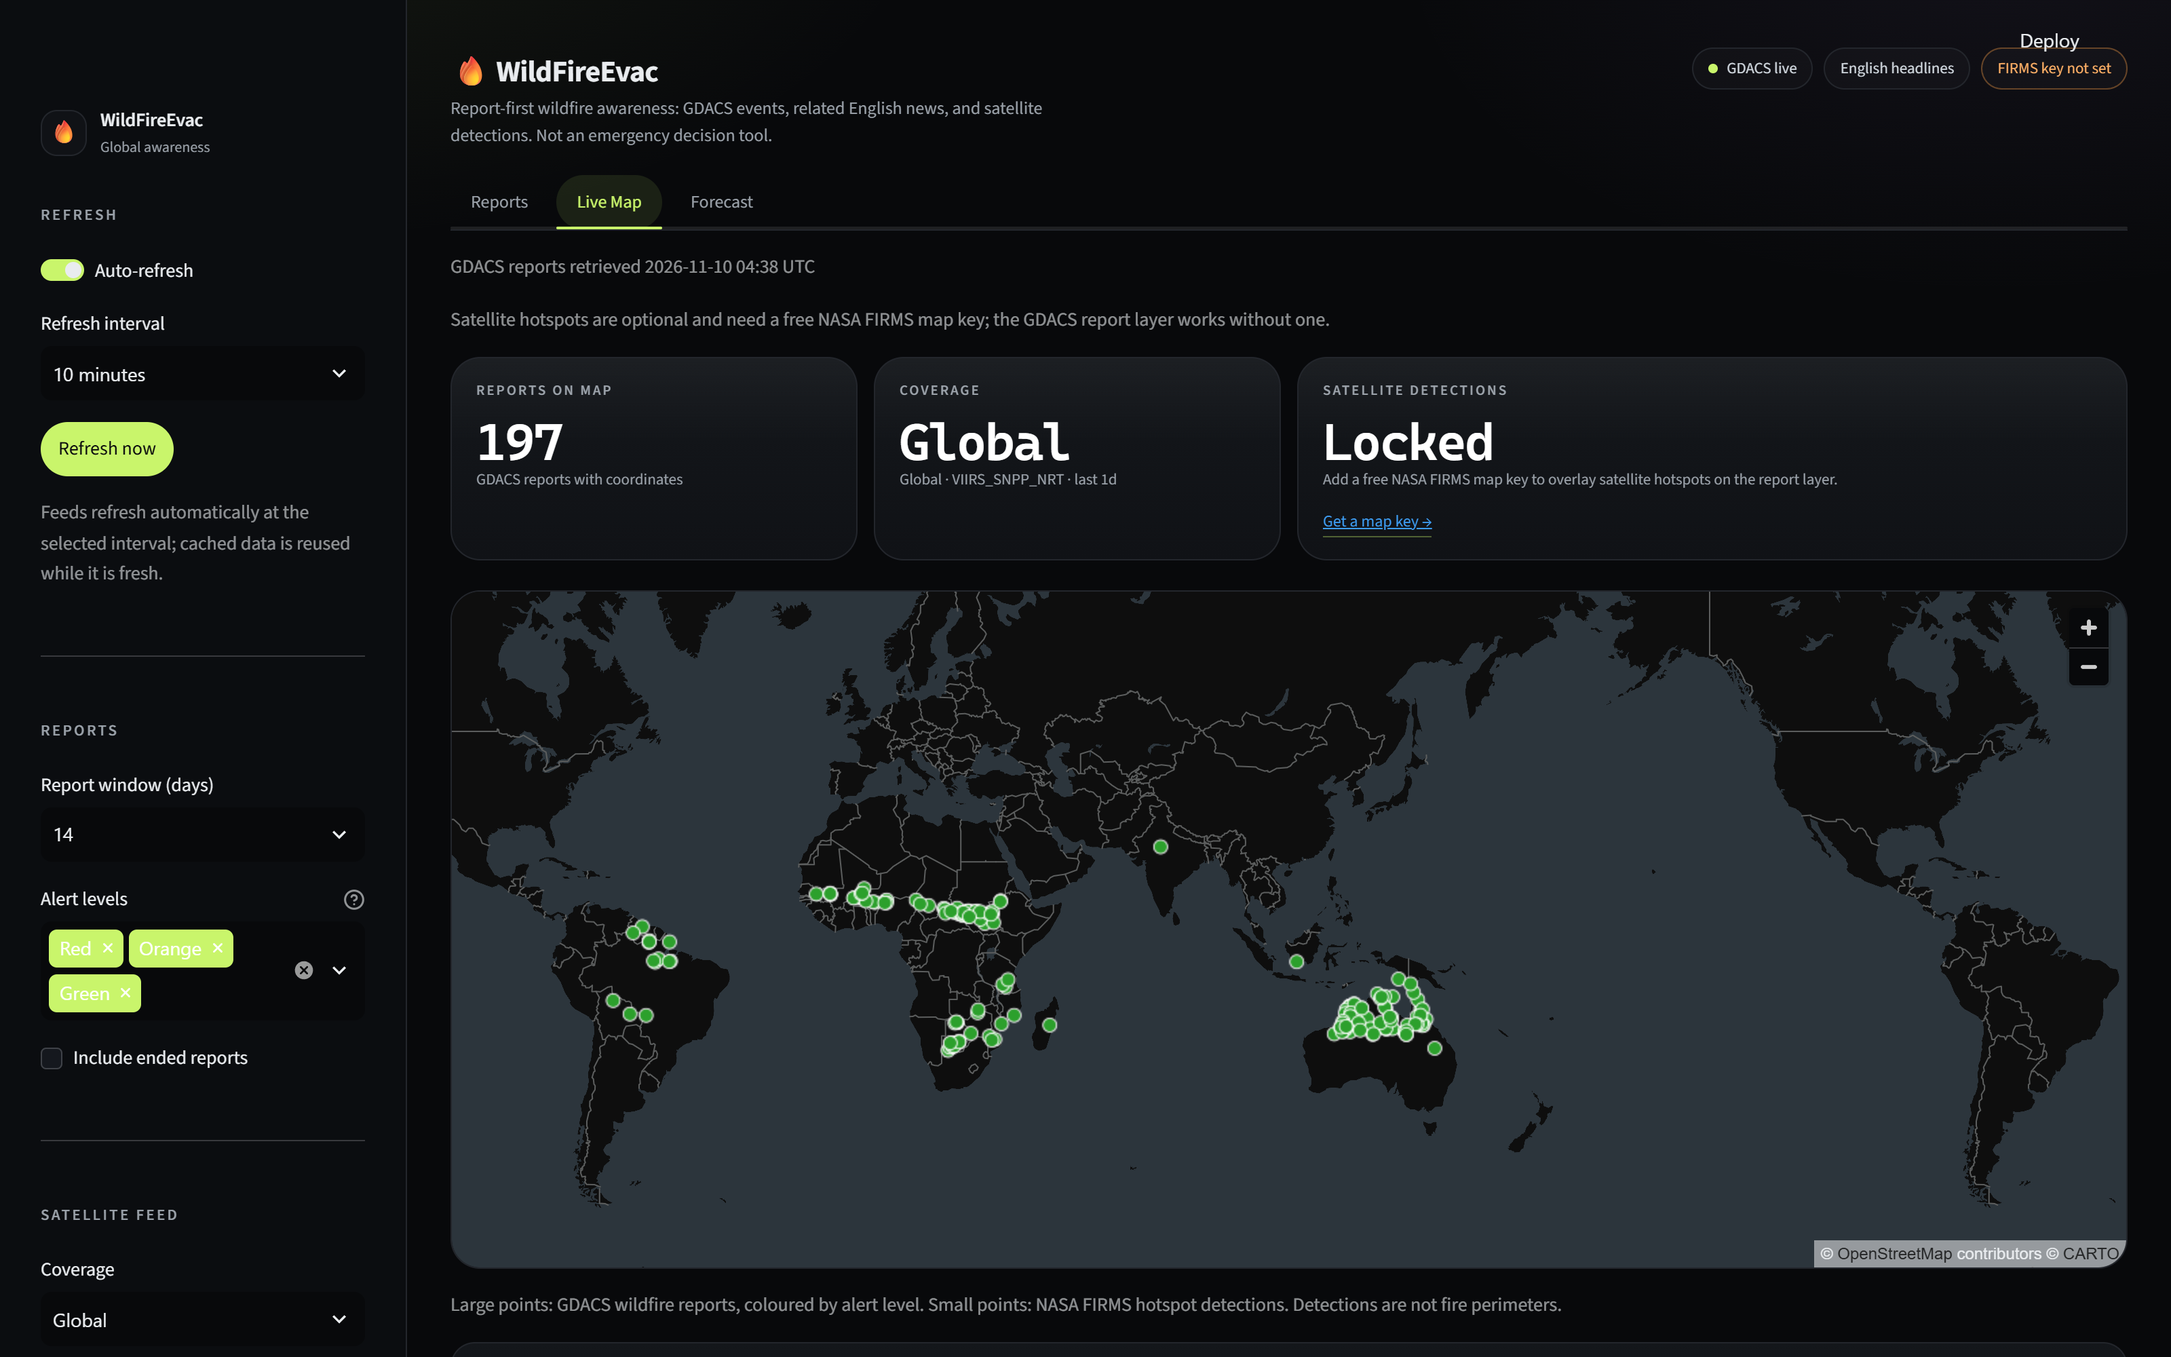
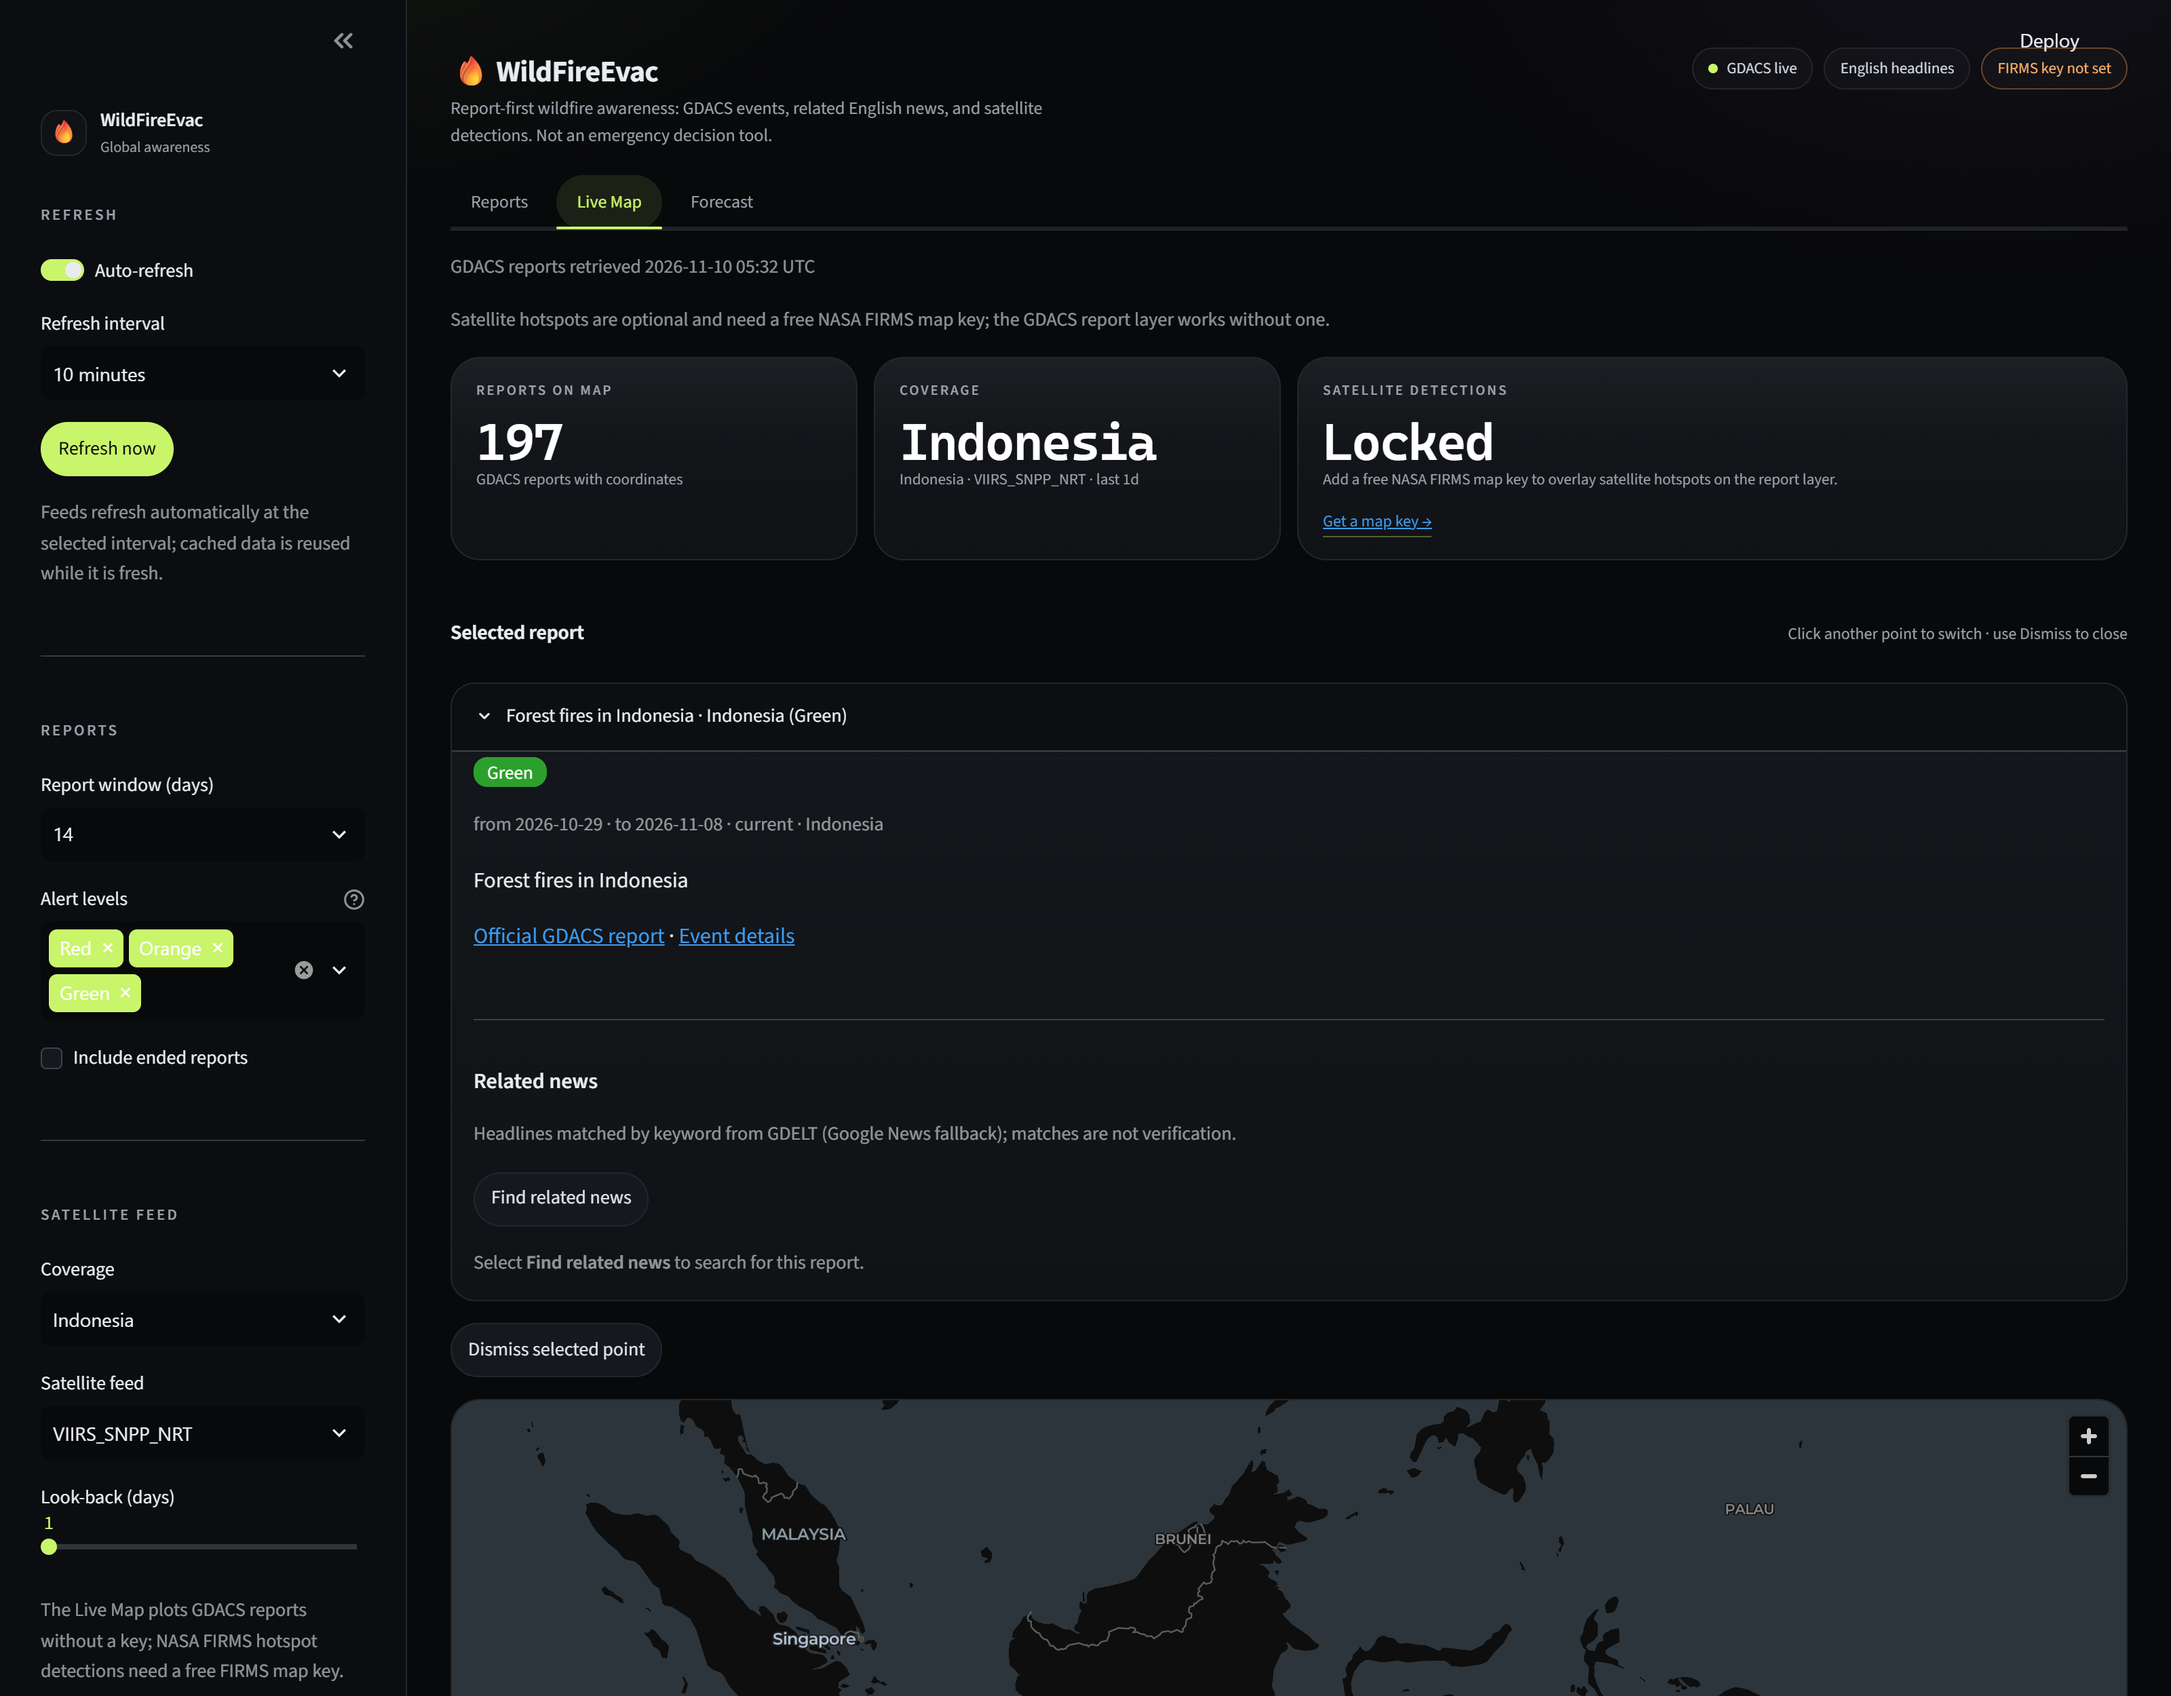
Open report details when a map point is clicked

diff --git a/app.py b/app.py
@@ -442,7 +442,7 @@ def _news_timespan(from_date) -> str:
     return f"{min(max(days, 7), 90)}d"
 
 
-def render_related_news(row) -> None:
+def render_related_news(row, key_prefix: str = "") -> None:
     st.divider()
     st.markdown("**Related news**")
     st.caption(
@@ -451,7 +451,9 @@ def render_related_news(row) -> None:
     )
 
     requested = st.session_state.setdefault("_news_requested", set())
-    if st.button("Find related news", key=f"news-button-{row.event_id}"):
+    if st.button(
+        "Find related news", key=f"{key_prefix}news-button-{row.event_id}"
+    ):
         requested.add(row.event_id)
     if row.event_id not in requested:
         st.caption("Select **Find related news** to search for this report.")
@@ -496,7 +498,7 @@ def render_related_news(row) -> None:
         )
 
 
-def render_report_detail(row) -> None:
+def render_report_detail(row, key_prefix: str = "") -> None:
     color = ALERT_COLORS.get(row.alert_level, ALERT_COLORS["Unknown"])
     level = html.escape(str(row.alert_level))
     st.markdown(
@@ -533,7 +535,7 @@ def render_report_detail(row) -> None:
     if links:
         st.markdown(" · ".join(links), unsafe_allow_html=True)
 
-    render_related_news(row)
+    render_related_news(row, key_prefix)
 
 
 def _date_label(days_ago: int) -> str:
@@ -862,6 +864,74 @@ def filter_reports(
     return filtered
 
 
+def _selected_map_object(event) -> tuple[str, dict | None]:
+    """Pull the first clicked deck.gl object out of the widget event state."""
+    if event is None:
+        return "", None
+    selection = getattr(event, "selection", None)
+    if selection is None and isinstance(event, dict):
+        selection = event.get("selection")
+    objects = getattr(selection, "objects", None)
+    if objects is None and isinstance(selection, dict):
+        objects = selection.get("objects")
+    if isinstance(objects, list):
+        for item in objects:
+            if isinstance(item, dict):
+                return "", item
+        return "", None
+    for layer_id, items in (objects or {}).items():
+        for item in items or []:
+            if isinstance(item, dict):
+                return str(layer_id), item
+    return "", None
+
+
+def render_selected_map_object(clicked: dict, events: pd.DataFrame) -> None:
+    event_id = str(clicked.get("event_id") or "")
+    match = (
+        events[events["event_id"].astype(str) == event_id]
+        if event_id
+        else events.head(0)
+    )
+    if not match.empty:
+        row = match.iloc[0]
+        st.markdown(
+            '<div class="wf-section"><h2>Selected report</h2>'
+            "<p>Click another point to switch · use Dismiss to close</p></div>",
+            unsafe_allow_html=True,
+        )
+        label = " · ".join(
+            str(part)
+            for part in (row["name"], row["country"])
+            if pd.notna(part) and str(part).strip()
+        )
+        with st.expander(f"{label} ({row['alert_level']})", expanded=True):
+            render_report_detail(row, key_prefix="map-")
+        return
+
+    st.markdown(
+        '<div class="wf-section"><h2>Selected detection</h2>'
+        "<p>Satellite hotspot · not a verified fire report</p></div>",
+        unsafe_allow_html=True,
+    )
+    parts = []
+    observed = " ".join(
+        str(clicked.get(key))
+        for key in ("acq_date", "acq_time")
+        if clicked.get(key)
+    )
+    if observed:
+        parts.append(f"Observed {observed} UTC")
+    for label_text, key, suffix in (
+        ("Satellite", "satellite", ""),
+        ("Confidence", "confidence", ""),
+        ("FRP", "frp", " MW"),
+    ):
+        if clicked.get(key) not in (None, ""):
+            parts.append(f"{label_text} {clicked[key]}{suffix}")
+    st.info(" · ".join(parts) or "Detection details are unavailable.")
+
+
 def _map_view_state(area_name: str) -> pdk.ViewState:
     if area_name == "Global":
         longitude, latitude, zoom = 110, 5, 1
@@ -984,21 +1054,29 @@ def render_live_map(
                 parts.append(f"to {pd.Timestamp(row.to_date):%Y-%m-%d}")
             parts.append("current" if bool(row.is_current) else "ended")
             detail.append(html.escape(" · ".join(parts)))
-        event_data = ordered.assign(
-            label=(
-                ordered["name"].astype(str)
-                + " ("
-                + ordered["alert_level"].astype(str)
-                + ")"
-            ).map(html.escape),
-            detail=detail,
-            fill_color=ordered["alert_level"].map(
-                lambda level: _rgb(ALERT_COLORS.get(level, ALERT_COLORS["Unknown"]))
-            ),
+        event_data = pd.DataFrame(
+            {
+                "longitude": ordered["longitude"],
+                "latitude": ordered["latitude"],
+                "event_id": ordered["event_id"].astype(str),
+                "label": (
+                    ordered["name"].astype(str)
+                    + " ("
+                    + ordered["alert_level"].astype(str)
+                    + ")"
+                ).map(html.escape),
+                "detail": detail,
+                "fill_color": ordered["alert_level"].map(
+                    lambda level: _rgb(
+                        ALERT_COLORS.get(level, ALERT_COLORS["Unknown"])
+                    )
+                ),
+            }
         )
         layers.append(
             pdk.Layer(
                 "ScatterplotLayer",
+                id="wildfire-reports",
                 data=event_data,
                 get_position="[longitude, latitude]",
                 get_fill_color="fill_color",
@@ -1013,13 +1091,20 @@ def render_live_map(
         )
 
     if hotspots is not None and not hotspots.empty:
-        hotspot_data = hotspots.assign(
-            label="Satellite hotspot",
-            detail=_hotspot_tooltips(hotspots),
-        )
+        hotspot_columns = {
+            "longitude": hotspots["longitude"],
+            "latitude": hotspots["latitude"],
+            "label": "Satellite hotspot",
+            "detail": _hotspot_tooltips(hotspots),
+        }
+        for column in ("acq_date", "acq_time", "satellite", "confidence", "frp"):
+            if column in hotspots.columns:
+                hotspot_columns[column] = hotspots[column]
+        hotspot_data = pd.DataFrame(hotspot_columns)
         layers.append(
             pdk.Layer(
                 "ScatterplotLayer",
+                id="firms-hotspots",
                 data=hotspot_data,
                 get_position="[longitude, latitude]",
                 get_fill_color="[220, 70, 32, 190]",
@@ -1045,11 +1130,34 @@ def render_live_map(
                 "style": {"backgroundColor": "#14171b", "color": "#e9ecef"},
             },
         )
-        st.pydeck_chart(deck, use_container_width=True)
+        if st.session_state.pop("_map_clear_requested", False):
+            st.session_state.pop("wildfire-map", None)
+
+        detail_slot = st.container()
+        event = st.pydeck_chart(
+            deck,
+            use_container_width=True,
+            on_select="rerun",
+            selection_mode="single-object",
+            key="wildfire-map",
+        )
+        _layer_id, clicked = _selected_map_object(event)
+        if clicked is not None:
+            with detail_slot:
+                render_selected_map_object(clicked, events)
+                if st.button(
+                    "Dismiss selected point",
+                    key="map-selection-dismiss",
+                    type="secondary",
+                ):
+                    st.session_state["_map_clear_requested"] = True
+                    st.rerun()
+
         st.caption(
             "Large points: GDACS wildfire reports, coloured by alert level. "
-            "Small points: NASA FIRMS hotspot detections. Detections are not "
-            "fire perimeters."
+            "Small points: NASA FIRMS hotspot detections. Click any point to "
+            "open its report or detection details. Detections are not fire "
+            "perimeters."
         )
     else:
         st.info("No reports or detections to map for this selection.")

diff --git a/README.md b/README.md
@@ -56,15 +56,16 @@ wildfire events) and each report can surface related English headlines from
 GDELT, with Google News as a fallback when GDELT is unavailable or rate
 limited. The **Live Map** tab plots those GDACS reports worldwide, for
 Indonesia, or for Kalimantan, and overlays NASA FIRMS satellite hotspot
-detections when a FIRMS key is configured. Reports are official GDACS
-events; detections are not verified fire perimeters, evacuation boundaries,
-or model forecasts.
+detections when a FIRMS key is configured. Click any point on the map to open
+its GDACS report (with related news) or its satellite detection details.
+Reports are official GDACS events; detections are not verified fire
+perimeters, evacuation boundaries, or model forecasts.
 
 <img src="docs/screenshots/reports.png" alt="Reports tab listing global GDACS wildfire reports" width="900">
 
 <img src="docs/screenshots/report-news.png" alt="A report expanded with related English news headlines" width="900">
 
-<img src="docs/screenshots/live-map.png" alt="Live Map tab showing GDACS wildfire reports as coloured points" width="900">
+<img src="docs/screenshots/live-map.png" alt="Live Map tab with a clicked report point showing its detail panel above the map" width="900">
 
 Reports and related news need no credentials, and the GDACS map layer works
 without one. Satellite hotspots need a free NASA FIRMS map key (register on
